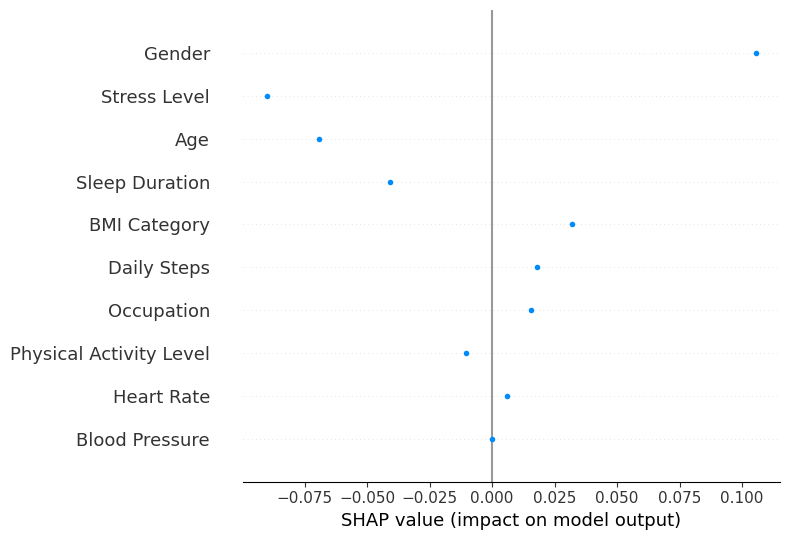
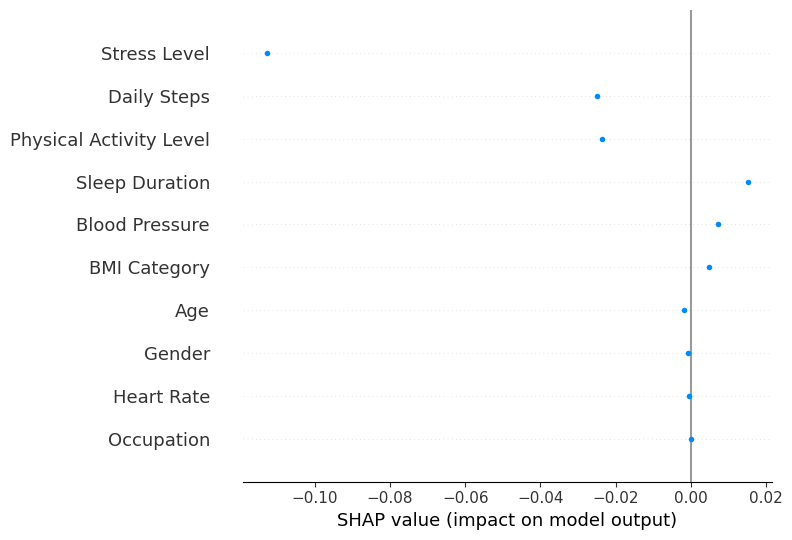
ajustement de preprocesing

diff --git a/TIPE/AI_Model.py b/TIPE/AI_Model.py
@@ -360,7 +360,29 @@ def preprocecing(df, on, y_normalisation=True):
     def normalisation(df):
         """ Normalise les données entre 0 et 1 """
 
-        return df/df.max()
+        max_values = {'Gender': 2, 'Age': 130, 'Occupation': 5, 'Sleep Duration': 24, 
+                      'Physical Activity Level': 200, 'Stress Level': 10, 'BMI Category': 4, 
+                      'Blood Pressure': 200, 'Heart Rate': 200, 'Daily Steps': 50000, 'Quality of Sleep': 10}
+       
+        df['Gender'] = df['Gender'].div(max_values['Gender'])
+        df['Age'] = df['Age'].div(max_values['Age'])
+        df['Occupation'] = df['Occupation'].div(max_values['Occupation'])
+        df['Sleep Duration'] = df['Sleep Duration'].div(max_values['Sleep Duration'])
+        df['Physical Activity Level'] = df['Physical Activity Level'].div(max_values['Physical Activity Level'])
+        df['Stress Level'] = df['Stress Level'].div(max_values['Stress Level'])
+        df['BMI Category'] = df['BMI Category'].div(max_values['BMI Category'])
+        df['Blood Pressure'] = df['Blood Pressure'].div(max_values['Blood Pressure'])
+        df['Heart Rate'] = df['Heart Rate'].div(max_values['Heart Rate'])
+        df['Daily Steps'] = df['Daily Steps'].div(max_values['Daily Steps'])
+        if 'Quality of Sleep' in df.columns:
+            df['Quality of Sleep'] = df['Quality of Sleep'].div(max_values['Quality of Sleep'])
+
+        return df
+    
+    def normalisation_y(y):
+        if on[0] == 'Quality of Sleep':
+            max_value = 10
+        return y / max_value
     
     def intern(df):
         df= encodage(df)
@@ -374,7 +396,7 @@ def preprocecing(df, on, y_normalisation=True):
         X = normalisation(X)
         if y_normalisation:
             # Normalize target variable
-            y = normalisation(y) 
+            y = normalisation_y(y) 
         return X, y
 
     trainset, testset = split_data(df)
@@ -549,16 +571,18 @@ def affichage_perf(X_train, y_train, X_test, y_test, model, qt=None):
     else:
         y_train_int = y_train_true.astype(int)
         y_test_int  = y_test_true.astype(int)
+        pred_train = np.round(pred_train).astype(int)
+        pred_test = np.round(pred_test).astype(int)
 
         print("=== Classification multi-classes ===")
         print(f"Train Accuracy:  {accuracy_score(y_train_int, pred_train):.4f}")
         print(f"Test Accuracy:   {accuracy_score(y_test_int, pred_test):.4f}")
         print(f"Train F1 Score:  {f1_score(y_train_int, pred_train, average='weighted'):.4f}")
         print(f"Test F1 Score:   {f1_score(y_test_int, pred_test, average='weighted'):.4f}")
-        print(f"Train Precision: {precision_score(y_train_int, pred_train, average='weighted'):.4f}")
-        print(f"Test Precision:  {precision_score(y_test_int, pred_test, average='weighted'):.4f}")
-        print(f"Train Recall:    {recall_score(y_train_int, pred_train, average='weighted'):.4f}")
-        print(f"Test Recall:     {recall_score(y_test_int, pred_test, average='weighted'):.4f}")
+        print(f"Train Precision: {precision_score(y_train_int, pred_train, average='weighted', zero_division=0):.4f}")
+        print(f"Test Precision:  {precision_score(y_test_int, pred_test, average='weighted', zero_division=0):.4f}")
+        print(f"Train Recall:    {recall_score(y_train_int, pred_train, average='weighted', zero_division=0):.4f}")
+        print(f"Test Recall:     {recall_score(y_test_int, pred_test, average='weighted', zero_division=0):.4f}")
 
 def courbe_perf(sleep, path, bool_p=True):
     """ Met les courbes de perte et de performance dans un fichier """
@@ -690,7 +714,6 @@ def main_quality_of_sleep(bool_c, bool_t, path_n, path_c):
         sleep = model_init(path_n, X_train, y_train, X_test, y_test, [128,64,32,16,1], path_n, treshold_val=0.5, qt=qt)
     else: 
         sleep = model_charge(path_n)
-
     if bool_t:
         sleep = model_train(X_train, y_train, X_test, y_test, sleep, path_n)
 
@@ -717,7 +740,7 @@ def main_quality_of_sleep(bool_c, bool_t, path_n, path_c):
     print("")
     print("Evolution des variables modifiables pour améliorer la prédiction :")
     val_evolution(sleep, ami_in, modifiable_features, modifiable_indices, features, nb_iter=30)
-    print(ami_in.sh)
+    print(ami_in.shape)
 
     # explainer
     explainer = shap.KernelExplainer(sleep.predict, X_train)
